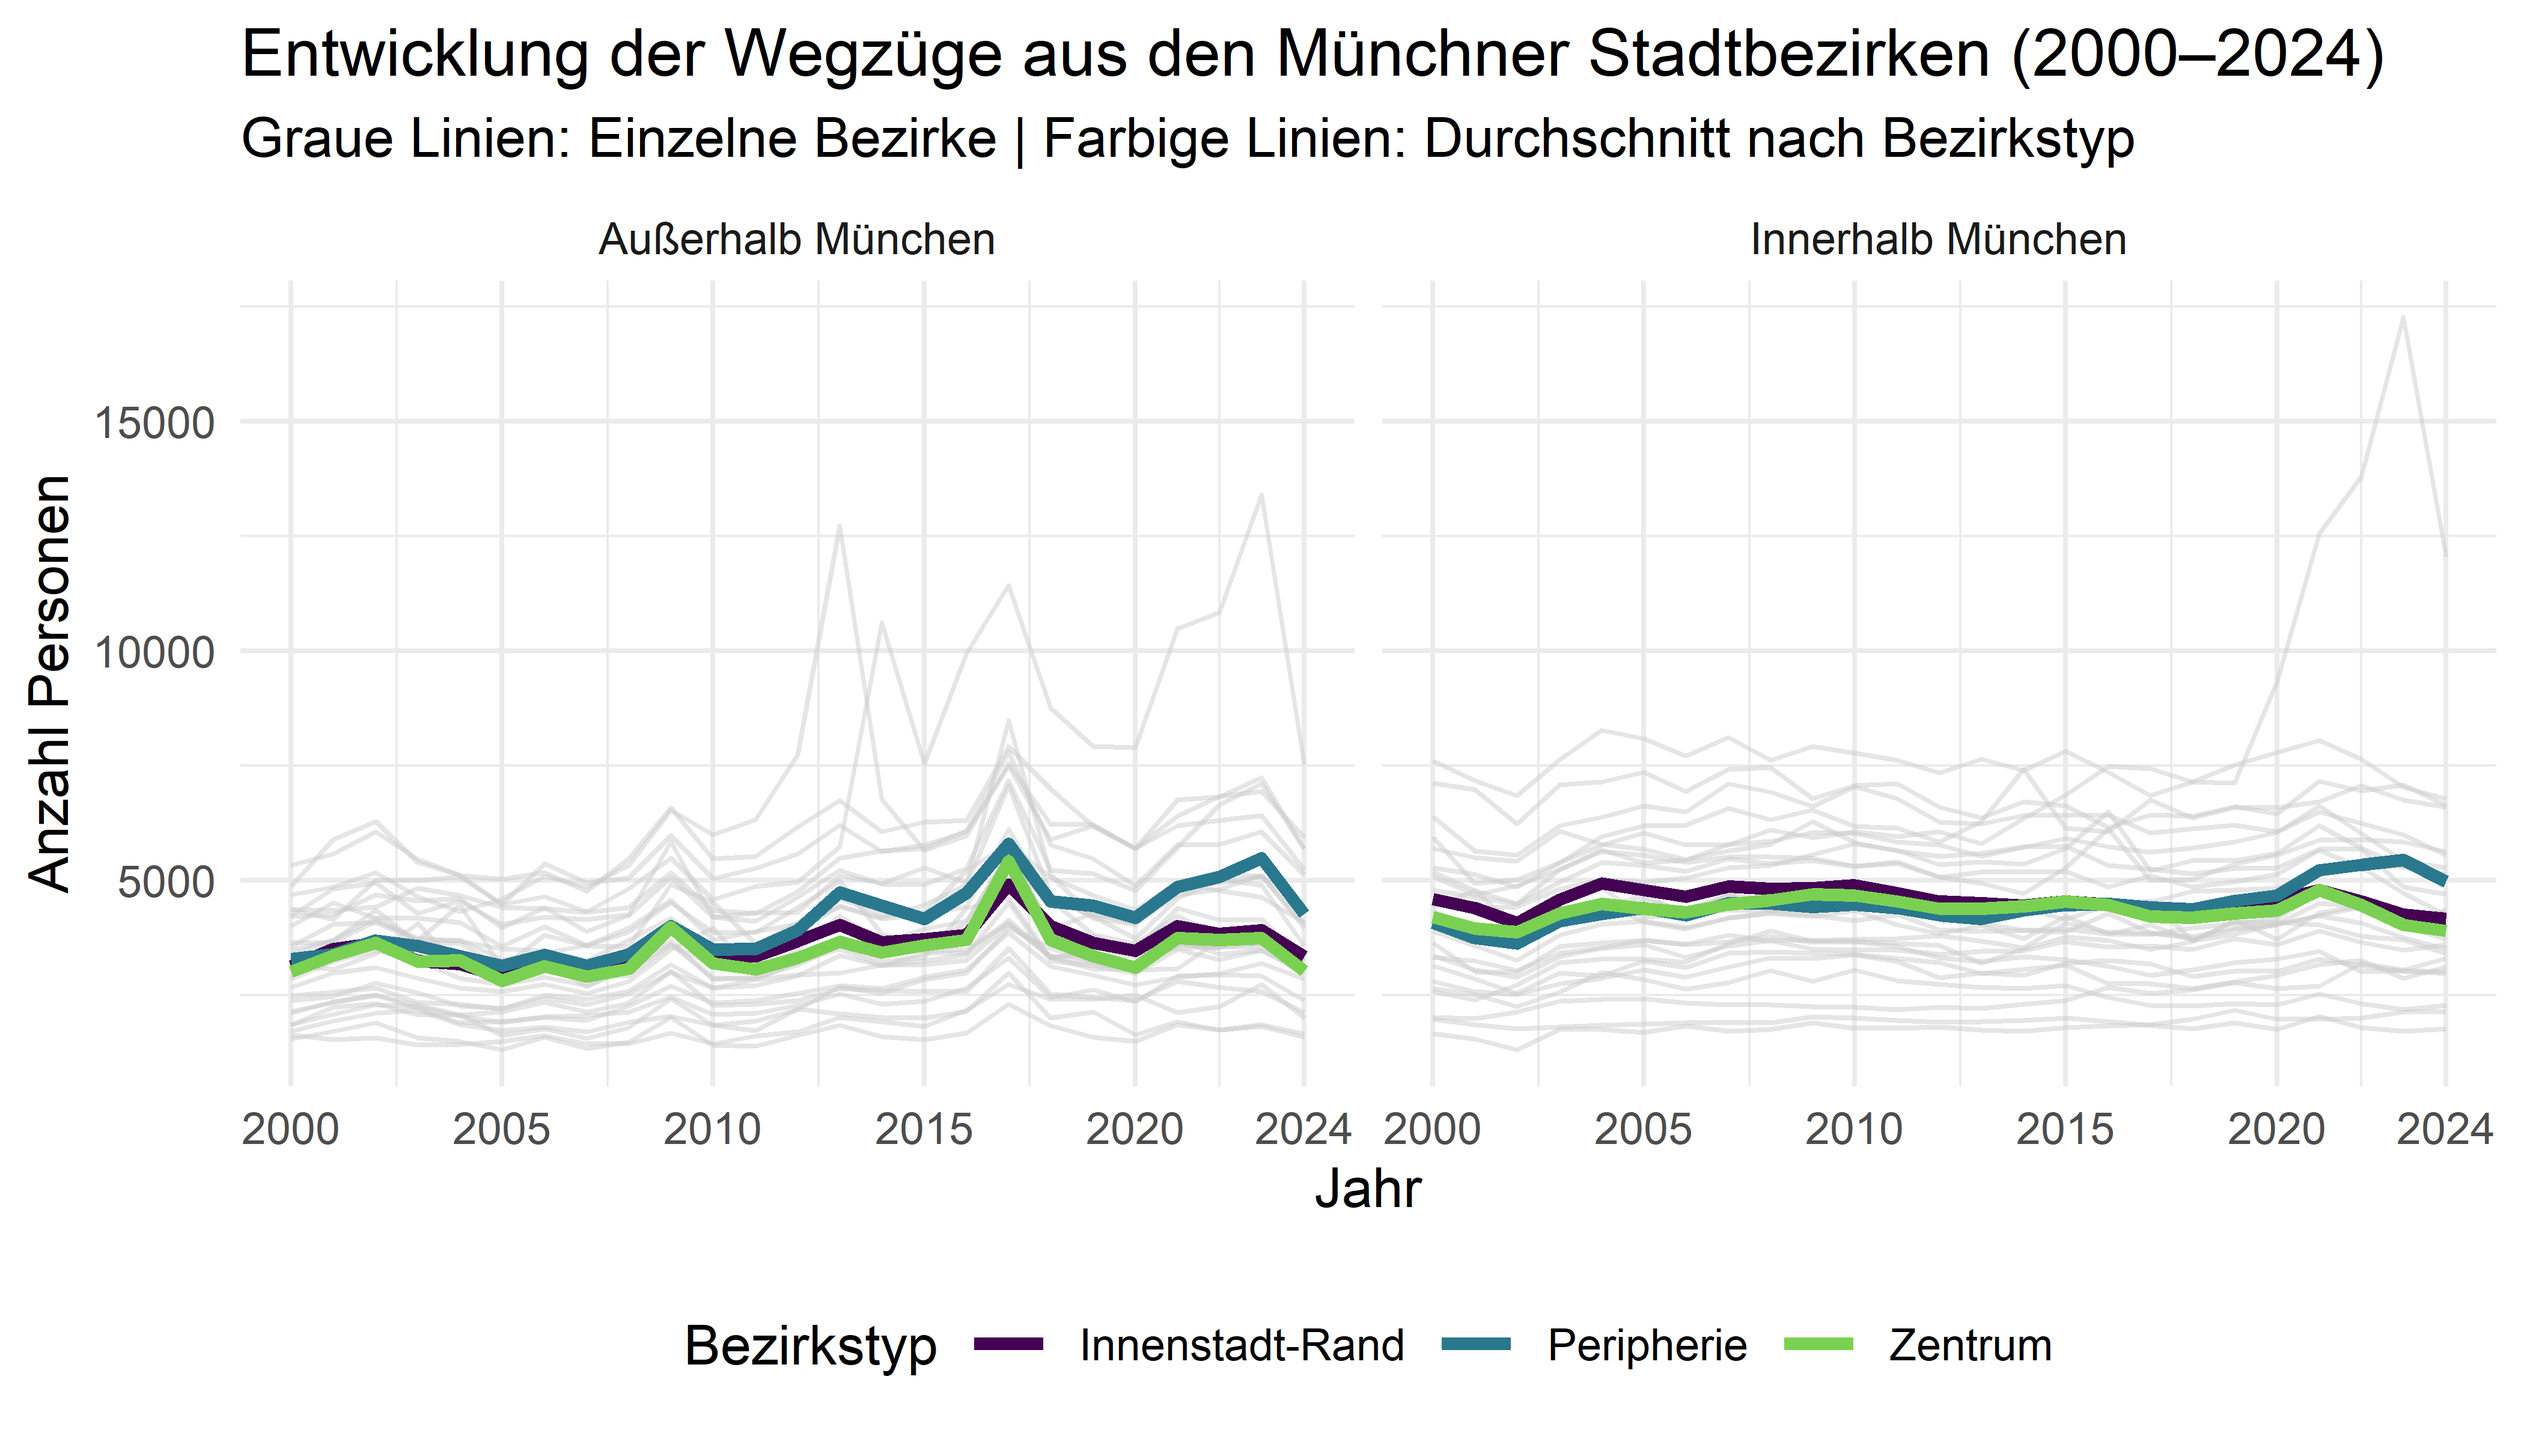
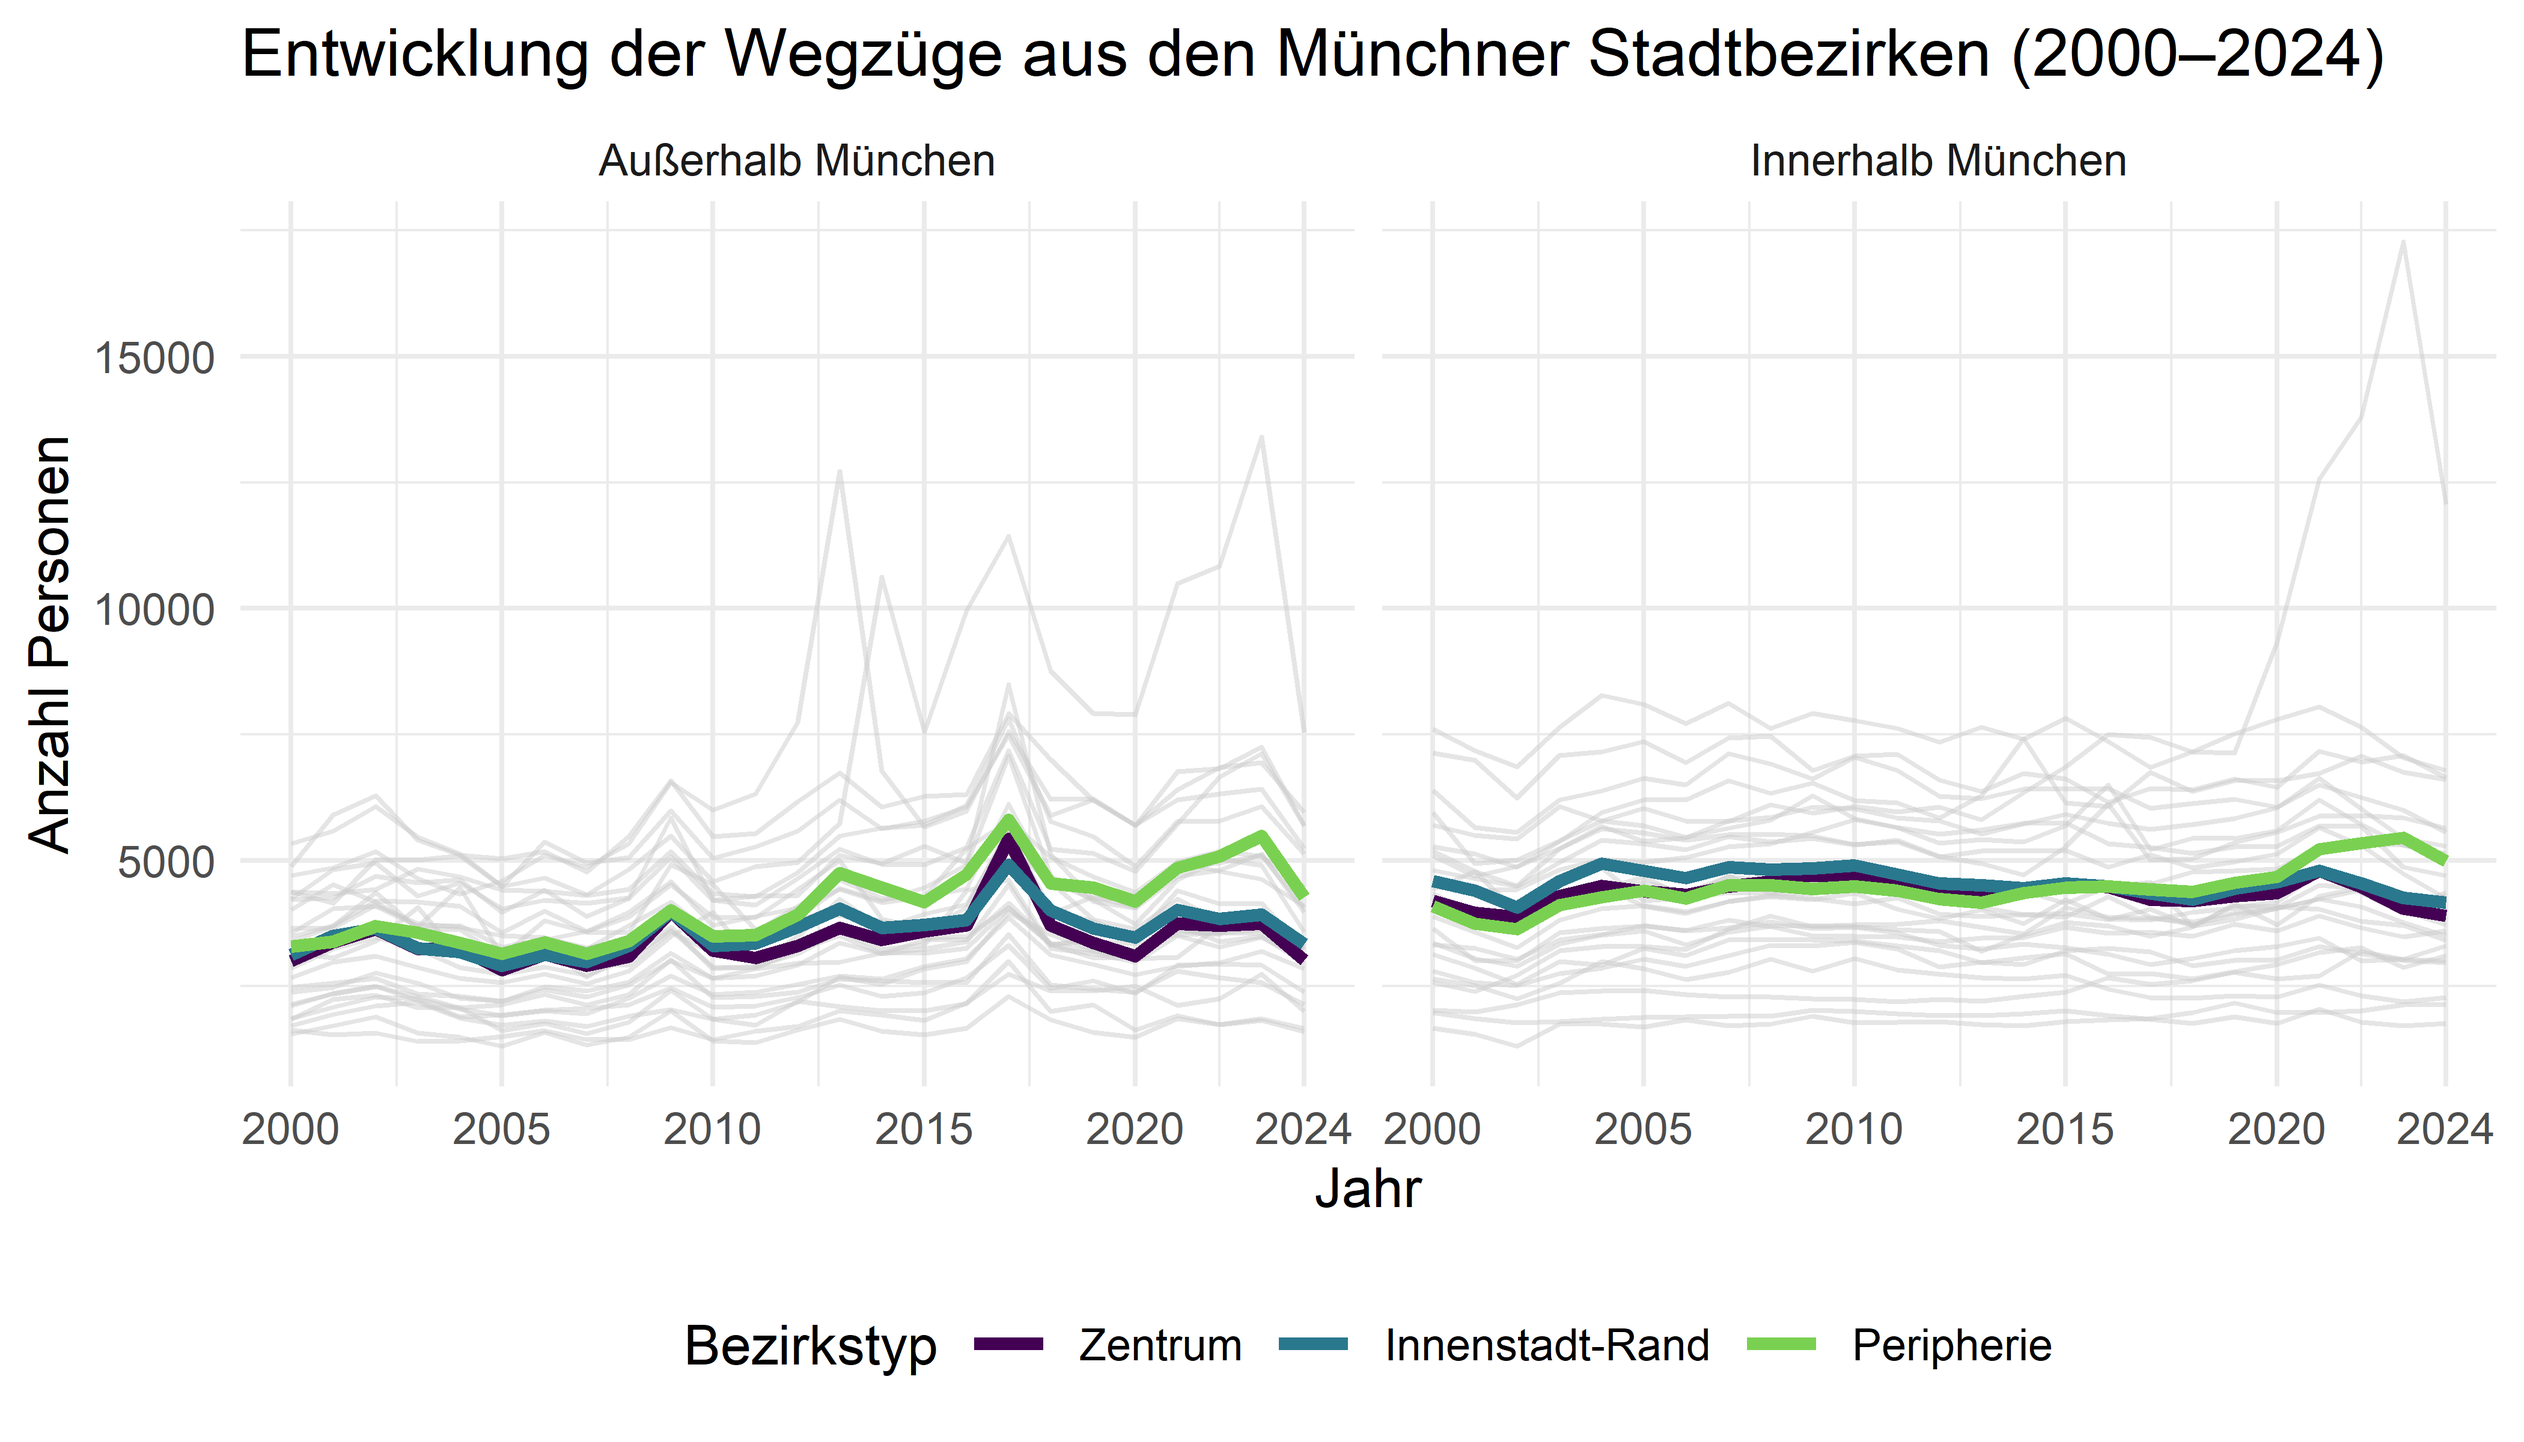
Variable bezirktyp als Faktor in 05 und Legende neu angeordnet und überall gleiche farben

diff --git a/presentation.html b/presentation.html
@@ -6,13 +6,8 @@
 <script src="presentation_files/libs/quarto-html/tippy.umd.min.js"></script>
 <link href="presentation_files/libs/quarto-html/tippy.css" rel="stylesheet">
 <link href="presentation_files/libs/quarto-html/light-border.css" rel="stylesheet">
-<<<<<<< HEAD
-<link href="presentation_files/libs/quarto-html/quarto-syntax-highlighting-7b89279ff1a6dce999919e0e67d4d9ec.css" rel="stylesheet" id="quarto-text-highlighting-styles"><meta charset="utf-8">
-  <meta name="generator" content="quarto-1.8.25">
-=======
-<link href="presentation_files/libs/quarto-html/quarto-syntax-highlighting-37eea08aefeeee20ff55810ff984fec1.css" rel="stylesheet" id="quarto-text-highlighting-styles"><meta charset="utf-8">
-  <meta name="generator" content="quarto-1.7.32">
->>>>>>> 0804a9c0760a32f2f10b25813995db1b78d1af6d
+<link href="presentation_files/libs/quarto-html/quarto-syntax-highlighting-ed96de9b727972fe78a7b5d16c58bf87.css" rel="stylesheet" id="quarto-text-highlighting-styles"><meta charset="utf-8">
+  <meta name="generator" content="quarto-1.8.27">
 
   <meta name="author" content="Heinz Calderón, Christian Lex, Dennis Ley, Haoyang Yang">
   <title>Wohnungsmigration in München</title>
@@ -34,7 +29,7 @@
       vertical-align: middle;
     }
   </style>
-  <link rel="stylesheet" href="presentation_files/libs/revealjs/dist/theme/quarto-60426cfa0718c280d4a950e35f176248.css">
+  <link rel="stylesheet" href="presentation_files/libs/revealjs/dist/theme/quarto-97e690a65df25032e636c45403dbb044.css">
   <link href="presentation_files/libs/revealjs/plugin/quarto-line-highlight/line-highlight.css" rel="stylesheet">
   <link href="presentation_files/libs/revealjs/plugin/reveal-menu/menu.css" rel="stylesheet">
   <link href="presentation_files/libs/revealjs/plugin/reveal-menu/quarto-menu.css" rel="stylesheet">
@@ -160,7 +155,7 @@ Heinz Calderón, Christian Lex, Dennis Ley, Haoyang Yang
 <h2>Datenüberblick</h2>
 <div class="cell">
 <div class="cell-output-display">
-<table class="caption-top" data-quarto-postprocess="true">
+<table class="caption-top">
 <caption>Säule 1: Mobilitätsdaten (Auszug)</caption>
 <thead>
 <tr class="header">
@@ -190,7 +185,7 @@ Heinz Calderón, Christian Lex, Dennis Ley, Haoyang Yang
 </table>
 </div>
 <div class="cell-output-display">
-<table class="caption-top" data-quarto-postprocess="true">
+<table class="caption-top">
 <caption>Säule 2: Bevölkerungsdichte (Auszug)</caption>
 <thead>
 <tr class="header">
@@ -526,7 +521,7 @@ Heinz Calderón, Christian Lex, Dennis Ley, Haoyang Yang
         margin: 0.1,
 
         math: {
-          mathjax: 'https://cdnjs.cloudflare.com/ajax/libs/mathjax/2.7.9/MathJax.js',
+          mathjax: 'https://cdn.jsdelivr.net/npm/mathjax@2.7.9/MathJax.js',
           config: 'TeX-AMS_HTML-full',
           tex2jax: {
             inlineMath: [['\\(','\\)']],
@@ -676,13 +671,14 @@ Heinz Calderón, Christian Lex, Dennis Ley, Haoyang Yang
           e.clearSelection();
         }
         const getTextToCopy = function(trigger) {
-            const codeEl = trigger.previousElementSibling.cloneNode(true);
-            for (const childEl of codeEl.children) {
-              if (isCodeAnnotation(childEl)) {
-                childEl.remove();
-              }
+          const outerScaffold = trigger.parentElement.cloneNode(true);
+          const codeEl = outerScaffold.querySelector('code');
+          for (const childEl of codeEl.children) {
+            if (isCodeAnnotation(childEl)) {
+              childEl.remove();
             }
-            return codeEl.innerText;
+          }
+          return codeEl.innerText;
         }
         const clipboard = new window.ClipboardJS('.code-copy-button:not([data-in-quarto-modal])', {
           text: getTextToCopy
